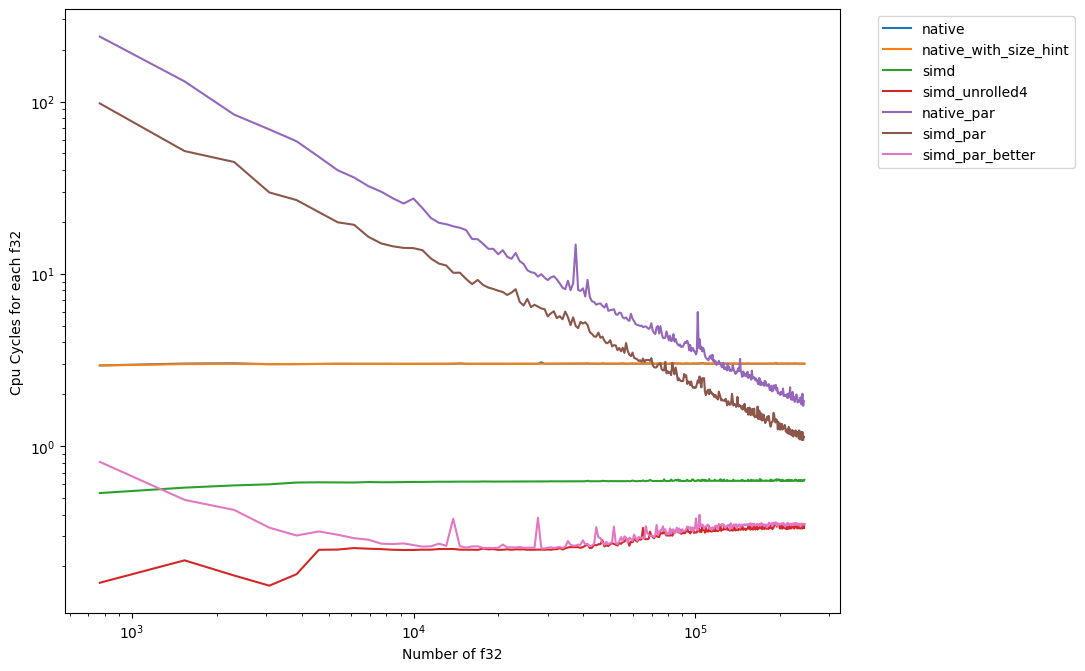
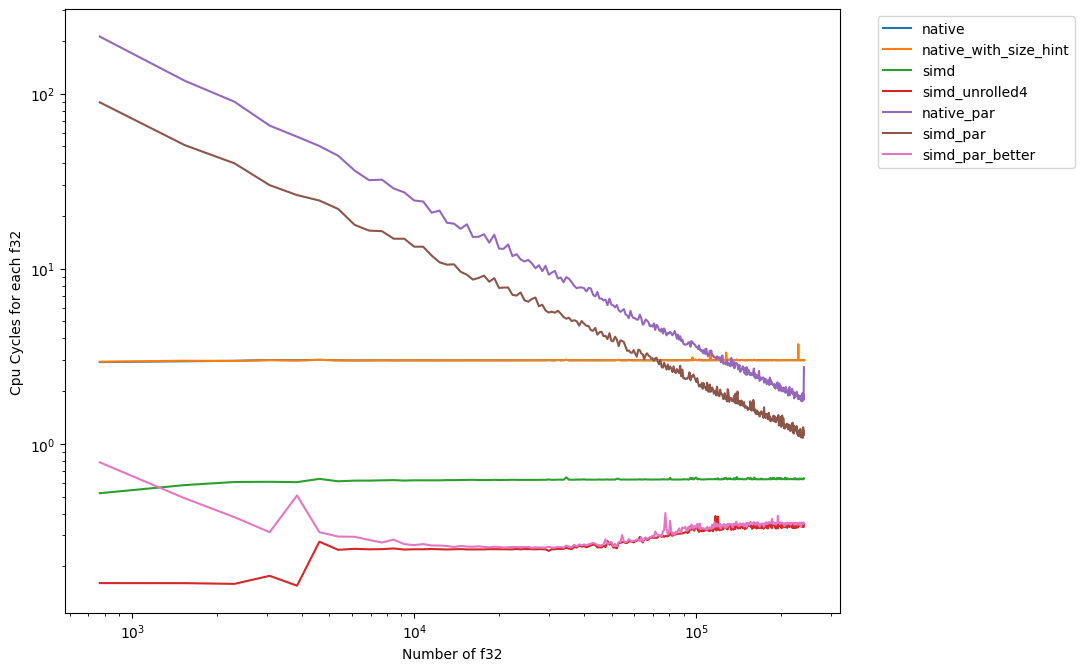
added data to lower sizes

diff --git a/src/bin.rs b/src/bin.rs
@@ -30,6 +30,33 @@ println!("{},{},{},{}", stringify!($f), $size, moment1, moment2 - (moment1 * mom
 }
 
 pub fn main() {
+    let a = (0..8).map(|x| x as f32).collect::<Vec<_>>();
+    let b = (0..8).map(|x| x as f32).collect::<Vec<_>>();
+
+    benchmark!(
+        8, a, b, 
+        native,
+        native_with_size_hint,
+        simd,
+        native_par,
+        simd_par
+    );
+
+    for i in 1..100 {
+        let size = 32 * i;
+        let a = (0..size).map(|x| x as f32).collect::<Vec<_>>();
+        let b = (0..size).map(|x| x as f32).collect::<Vec<_>>();
+
+        benchmark!(
+            size, a, b, 
+            native,
+            native_with_size_hint,
+            simd,
+            simd_unrolled4,
+            native_par
+        );
+    }
+
     for i in 1..100_000 {
         let size = i * 32 * rayon::current_num_threads();
         let a = (0..size).map(|x| x as f32).collect::<Vec<_>>();

diff --git a/README.md b/README.md
@@ -5,4 +5,5 @@ To run the benchmarks use:
 ```bash
 RUSTFLAGS="-C target-cpu=native" cargo run --release | tee data.csv
 ```
+Then run the jupyter notebook to create the img.
 ![](benchmarks.png)
